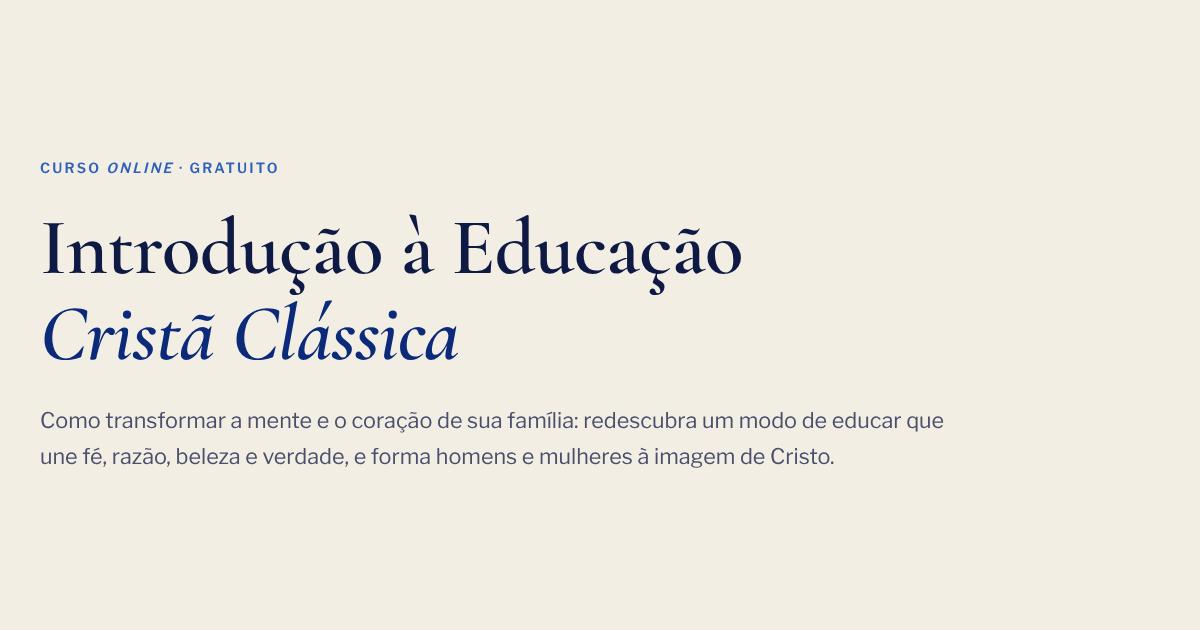
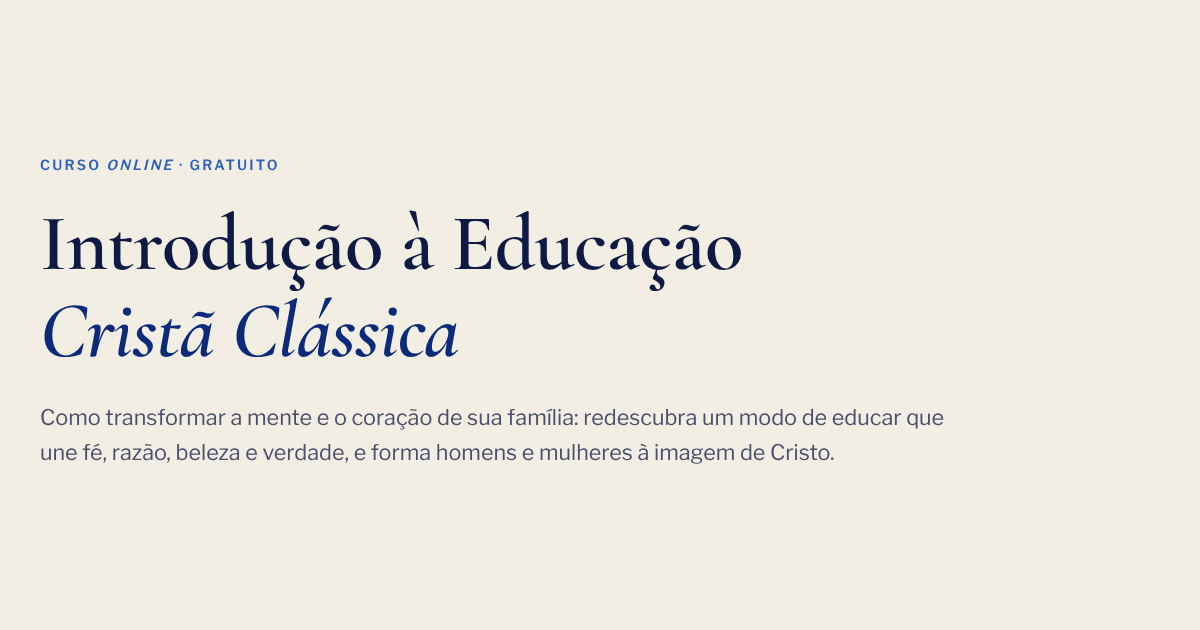
Simetria óptica das camadas, menu mais espaçado no celular, marca sobe ao topo
- Mede a simetria pelos pixels (ferramentas/medir-simetria-pixels.js); diferenças de até 34 px corrigidas
- text-box corta a folga invisível do primeiro e do último texto de cada bloco
- Sombra da capa e anel da foto compensados
- Menu no celular: 22 px iguais entre bordas, marca e linhas; área de toque maior
- Na página inicial, a marca só sobe ao início, sem recarregar
- Imagens de compartilhamento geradas de novo

Claude-Session: https://claude.ai/code/session_019zbxNExRumNR7DhoC4HdTc

diff --git a/estilo.css b/estilo.css
@@ -109,8 +109,8 @@ body::before { content: ""; position: fixed; inset: 0 0 auto; height: env(safe-a
 .topbar .wrap { display: flex; align-items: center; justify-content: space-between; gap: 1rem; padding-block: 0.75rem; }
 .brand { display: inline-flex; align-items: center; gap: .65rem; font-family: var(--font-body); font-weight: 600; letter-spacing: 0.14em; font-size: 0.85rem; text-transform: uppercase; color: var(--ink); text-decoration: none; }
 .crest { width: 30px; height: 30px; flex: none; color: var(--cobalt); }
-.topbar nav { display: flex; flex-wrap: wrap; gap: .4rem 1.6rem; }
-.topbar nav a { font-weight: 600; font-size: .8rem; letter-spacing: .14em; text-transform: uppercase; color: var(--ink-soft); text-decoration: none; }
+.topbar nav { display: flex; flex-wrap: wrap; gap: 0 .9rem; }
+.topbar nav a { font-weight: 600; font-size: .8rem; letter-spacing: .14em; text-transform: uppercase; color: var(--ink-soft); text-decoration: none; padding: .5rem .35rem; } /* área de toque maior */
 .topbar nav a:hover { color: var(--cobalt); }
 
 /* abertura */
@@ -329,9 +329,12 @@ footer em { font-family: var(--font-display); font-size: 1.3rem; color: var(--in
   .actions { flex-direction: column; align-items: stretch; width: 100%; }
   .actions .btn { min-width: 0; }
   /* topo no celular: marca e menu centralizados em duas linhas */
-  .topbar .wrap { flex-direction: column; gap: .5rem; padding-block: .7rem; }
-  .topbar nav { justify-content: center; gap: .3rem 1.4rem; }
-  .topbar nav a { font-size: .72rem; line-height: 1; }
+  /* Celular: marca e menu centralizados. Cada link tem área de toque de ~40 px de altura;
+     o espaço visível entre marca, linhas do menu e bordas da barra é o mesmo (--tb-gap). */
+  .topbar { --tb-gap: 22px; --tap-y: 11px; }
+  .topbar .wrap { flex-direction: column; gap: calc(var(--tb-gap) - var(--tap-y) + 2px); padding-top: var(--tb-gap); padding-bottom: calc(var(--tb-gap) - var(--tap-y)); }
+  .topbar nav { justify-content: center; gap: 2px 1rem; max-width: 22rem; }
+  .topbar nav a { font-size: .74rem; line-height: 1; padding: var(--tap-y) .4rem; }
   .brand { font-size: .78rem; }
   .about img, .book-cover { margin-inline: auto; }
   footer .wrap { flex-direction: column; align-items: center; text-align: center; }
@@ -358,5 +361,19 @@ footer em { font-family: var(--font-display); font-size: 1.3rem; color: var(--in
 /* rótulo + título com a foto pequena em círculo à esquerda (seção "O professor") */
 .byline { display: flex; align-items: center; gap: 1.1rem; }
 .byline > div { display: grid; gap: .35rem; }
-.byline img { width: 84px; height: 84px; flex: none; border-radius: 50%; object-fit: cover; outline: 1px solid var(--azure); outline-offset: 4px; }
+.byline img { margin-block: 5px; width: 84px; height: 84px; flex: none; border-radius: 50%; object-fit: cover; outline: 1px solid var(--azure); outline-offset: 4px; }
 @media (max-width: 760px) { .byline img { width: 68px; height: 68px; } }
+
+/* Simetria óptica: corta a folga invisível acima do primeiro texto e abaixo do último texto de cada
+   bloco (camadas, caixas, cartões), para o espaço visível em cima e embaixo ficar igual.
+   Navegadores sem suporte (Firefox) simplesmente mantêm a folga normal. */
+@supports (text-box: trim-both cap alphabetic) {
+  :is(p, h1, h2, h3, li, dt, dd, cite, figcaption, .caps, .label, .word, .desc, .letter, .note, strong, span.dur):first-child { text-box: trim-start cap alphabetic; }
+  :is(p, h1, h2, h3, li, dt, dd, cite, figcaption, .caps, .label, .word, .desc, .letter, .note, strong, span.dur):last-child { text-box: trim-end cap alphabetic; }
+  :is(p, h1, h2, h3, li, dt, dd, cite, figcaption, .caps, .label, .word, .desc, .letter, .note, strong, span.dur):first-child:last-child { text-box: trim-both cap alphabetic; }
+}
+@supports (text-box: trim-both cap alphabetic) {
+  .facts-inline li, .progress { text-box: trim-both cap alphabetic; }
+}
+/* a sombra da capa do livro (12 px) conta como parte do desenho */
+.book-cover { margin-bottom: 12px; }

diff --git a/ferramentas/medir-simetria-pixels.js b/ferramentas/medir-simetria-pixels.js
@@ -1,0 +1,39 @@
+// Mede a simetria VISUAL de cada camada pelos pixels da tela: distância da borda de cima da camada
+// até o primeiro pixel visível (texto, linha, imagem) e do último pixel visível até a borda de baixo.
+// Uso: na raiz, rode  python3 -m http.server 8765  e depois
+//      node ferramentas/medir-simetria-pixels.js [url1 url2 ...]
+const { chromium } = require('playwright');
+const { PNG } = require(require.resolve('pngjs', { paths: [process.env.PNGJS_DIR || __dirname] }));
+(async () => {
+  const urls = process.argv.slice(2).length ? process.argv.slice(2) : ['/', '/iecc/', '/mentoria/'].map(u => 'http://localhost:8765' + u);
+  const b = await chromium.launch();
+  for (const url of urls) for (const w of [390, 1280]) {
+    const p = await b.newPage({ viewport: { width: w, height: 900 }, colorScheme: 'light', reducedMotion: 'reduce' });
+    await p.goto(url); await p.waitForTimeout(1200);
+    await p.evaluate(async () => { for (let y = 0; y < document.body.scrollHeight; y += 600) { scrollTo(0, y); await new Promise(r => setTimeout(r, 40)); } scrollTo(0, 0); });
+    await p.addStyleTag({ content: '.topbar{position:static!important}' });
+    await p.waitForTimeout(600);
+    const secs = await p.evaluate(() => [...document.querySelectorAll('section, footer')].map(s => {
+      const r = s.getBoundingClientRect(); return { id: s.id || s.className || s.tagName, top: Math.round(r.top + scrollY), bottom: Math.round(r.bottom + scrollY) };
+    }));
+    const png = PNG.sync.read(await p.screenshot({ fullPage: true }));
+    const px = (x, y) => { const i = (y * png.width + x) * 4; return [png.data[i], png.data[i + 1], png.data[i + 2]]; };
+    const diff = (a, c) => Math.abs(a[0] - c[0]) + Math.abs(a[1] - c[1]) + Math.abs(a[2] - c[2]);
+    console.log(`\n== ${url.replace(/^https?:\/\/[^/]+/, '')} @${w}px   (cima / baixo, em px)`);
+    for (const s of secs) {
+      const y0 = s.top + 2, y1 = Math.min(s.bottom - 2, png.height - 1);  // ignora a linha fina de cima
+      const bg = px(1, Math.min(y0 + 1, png.height - 1));
+      let first = -1, last = -1;
+      for (let y = y0; y <= y1; y++) {
+        let ink = false;
+        for (let x = 4; x < png.width - 4; x += 1) if (diff(px(x, y), bg) > 40) { ink = true; break; }
+        if (ink) { if (first < 0) first = y; last = y; }
+      }
+      if (first < 0) continue;
+      const t = first - s.top, bo = s.bottom - 1 - last, d = Math.abs(t - bo);
+      console.log(`${String(s.id).slice(0, 16).padEnd(16)} ${String(t).padStart(4)} / ${String(bo).padEnd(4)}${d > 3 ? '  <<< diferença ' + d : ''}`);
+    }
+    await p.close();
+  }
+  await b.close();
+})();

diff --git a/index.html b/index.html
@@ -12,7 +12,7 @@
 <meta property="og:url" content="https://marlonpevidor.pages.dev/">
 <meta property="og:title" content="Marlon Pevidor · Educação Cristã Clássica">
 <meta property="og:description" content="Cursos online gratuitos para formar a mente e o coração de sua família.">
-<meta property="og:image" content="https://marlonpevidor.pages.dev/compartilhar.png?v=9">
+<meta property="og:image" content="https://marlonpevidor.pages.dev/compartilhar.png?v=10">
 <meta property="og:image:width" content="1200">
 <meta property="og:image:height" content="630">
 <meta name="twitter:card" content="summary_large_image">
@@ -34,7 +34,7 @@
 
 <header class="topbar">
   <div class="wrap">
-    <a class="brand" href="./" title="Página inicial"><svg class="crest" viewBox="0 0 40 40" aria-hidden="true"><path d="M20 2 L36 8 V20 C36 29 28 35 20 38 C12 35 4 29 4 20 V8 Z" fill="none" stroke="currentColor" stroke-width="2.3" stroke-linejoin="round"/><g transform="translate(9.76 8.96) scale(0.08)" fill="currentColor"><path d="M216,92v24a16,16,0,0,1-16,16H156v92a16,16,0,0,1-16,16H116a16,16,0,0,1-16-16V132H56a16,16,0,0,1-16-16V92A16,16,0,0,1,56,76h44V32a16,16,0,0,1,16-16h24a16,16,0,0,1,16,16V76h44A16,16,0,0,1,216,92Z"/></g></svg><span>Marlon Pevidor</span></a>
+    <a class="brand" href="#top" title="Voltar ao início da página"><svg class="crest" viewBox="0 0 40 40" aria-hidden="true"><path d="M20 2 L36 8 V20 C36 29 28 35 20 38 C12 35 4 29 4 20 V8 Z" fill="none" stroke="currentColor" stroke-width="2.3" stroke-linejoin="round"/><g transform="translate(9.76 8.96) scale(0.08)" fill="currentColor"><path d="M216,92v24a16,16,0,0,1-16,16H156v92a16,16,0,0,1-16,16H116a16,16,0,0,1-16-16V132H56a16,16,0,0,1-16-16V92A16,16,0,0,1,56,76h44V32a16,16,0,0,1,16-16h24a16,16,0,0,1,16,16V76h44A16,16,0,0,1,216,92Z"/></g></svg><span>Marlon Pevidor</span></a>
     <nav aria-label="Menu">
       <a href="#cursos">Cursos</a>
       <a href="#mentoria">Mentoria</a>

diff --git a/iecc/index.html b/iecc/index.html
@@ -12,7 +12,7 @@
 <meta property="og:url" content="https://marlonpevidor.pages.dev/iecc/">
 <meta property="og:title" content="Introdução à Educação Cristã Clássica · Marlon Pevidor">
 <meta property="og:description" content="Curso online gratuito: redescubra a tradição que formou gerações pela beleza, pela bondade e pela verdade.">
-<meta property="og:image" content="https://marlonpevidor.pages.dev/iecc/compartilhar.png?v=8">
+<meta property="og:image" content="https://marlonpevidor.pages.dev/iecc/compartilhar.png?v=9">
 <meta property="og:image:width" content="1200">
 <meta property="og:image:height" content="630">
 <meta name="twitter:card" content="summary_large_image">

diff --git a/mentoria/index.html b/mentoria/index.html
@@ -12,7 +12,7 @@
 <meta property="og:url" content="https://marlonpevidor.pages.dev/mentoria/">
 <meta property="og:title" content="Mentoria Educador Cristão Clássico · Professor Marlon Pevidor">
 <meta property="og:description" content="Da mera carreira a um chamado que transforma vidas. Grau I do Instituto Cassiciacum.">
-<meta property="og:image" content="https://marlonpevidor.pages.dev/mentoria/compartilhar.png?v=1">
+<meta property="og:image" content="https://marlonpevidor.pages.dev/mentoria/compartilhar.png?v=2">
 <meta property="og:image:width" content="1200">
 <meta property="og:image:height" content="630">
 <meta name="twitter:card" content="summary_large_image">

diff --git a/CLAUDE.md b/CLAUDE.md
@@ -22,6 +22,9 @@ Endereços: `marlonpevidor.pages.dev` (principal) e `curso-iecc.pages.dev` (anti
 - Cada página de curso tem suas próprias perguntas frequentes; a página inicial não tem.
 - `/#aula-N` redireciona para `/iecc/#aula-N` (links antigos das descrições do YouTube).
 - Toda página interna volta à página inicial tocando na marca do topo (`../`). Páginas de curso têm "Outros cursos".
+  Na página inicial, a marca usa `href="#top"`: só sobe ao início, sem recarregar a página.
+- Barra do topo no celular: espaço visível IGUAL (22 px, `--tb-gap`) entre borda de cima, marca, cada linha do menu
+  e borda de baixo; cada link tem área de toque de ~34 px (`--tap-y`) e ~29 px entre palavras.
 - Página inicial: TODOS os links do menu descem para seções da própria página (Cursos, Mentoria, Livro, Sobre).
   "Mentoria" desce até a faixa `#mentoria`; só o botão da faixa leva a `mentoria/`.
 - Abertura da página inicial: rótulo "Autor e educador cristão clássico"; abaixo da foto, só "Marlon Pevidor"
@@ -78,9 +81,17 @@ O modelo é alinhado à esquerda: "right" maior que "left" é normal; o que prec
 - Botões lado a lado ou empilhados têm a mesma largura.
 - Rodapé usa metade de `--section-y`.
 
+- Simetria ÓPTICA: `text-box: trim-* cap alphabetic` corta a folga invisível acima do primeiro texto e abaixo do
+  último texto de cada bloco (bloco `@supports` no fim de `estilo.css`). Sem isso, rótulos `.caps` no topo das
+  camadas sobravam ~7 px a mais. Elementos que desenham além da caixa (sombra da capa, anel da foto) compensam
+  com margem (`.book-cover { margin-bottom: 12px }`, `.byline img { margin-block: 5px }`).
+
 **Verificação antes de entregar qualquer página nova ou alterada:**
 1. `python3 -m http.server 8765` na raiz.
-2. `node ferramentas/medir-simetria.js http://localhost:8765/ http://localhost:8765/<curso>/`
+2. `PNGJS_DIR=<pasta com pngjs> node ferramentas/medir-simetria-pixels.js` (mede pelos PIXELS o que o olho vê:
+   do topo da camada ao primeiro pixel visível e do último pixel à base; é a medição que vale).
+   `ferramentas/medir-simetria.js` (caixas de texto) fica como apoio. Diferença aceitável: até ~5 px, vinda só de
+   partes das letras abaixo da linha (g, p, ç) ou acentos.
 3. Em 390 px e 1280 px, top ≈ bottom e left ≈ right em cada camada (diferença máxima ~3 px,
    que é o espaço natural das letras). Texto alinhado à esquerda pode ter "right" um pouco maior.
 4. Conferir que não há rolagem horizontal em 390 px e mandar captura do celular ao professor.
